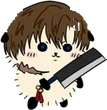
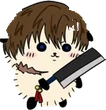
입구는 손 뗄 때 연다 · 말풍선 그림 투명해진 것 · 전 사원 공개
■ 의상숍 입구를 누르자마자 한 장 뽑히던 것

  광장 입구(.plaza-spot)는 **누르는 순간(pointerdown)** 열었다. 그러면
  손가락이 아직 화면에 있는 채로 가게 창이 그 밑에 깔리고, 손을 뗄 때
  click 이 새로 깔린 「1회 30,000 P」로 들어갔다. (click 은 pointerdown
  을 막아도 그대로 나가고, 누른 칸이 문서에서 빠지면 그 자리에 남은
  칸으로 간다 — 가게를 열면서 광장을 닫으니 꼭 그 꼴이 됐다.)

  · plaza.js — 입구를 **click** 에서 연다. pointerdown 은 조이스틱에
    안 뺏기려고 그대로 두되 열지는 않는다. 입구 전부가 함께 고쳐진다.
  · gacha.js — 두 번째 자물쇠. 한 장에 30,000 P 가 나가는 단추라,
    **그 단추에서 눌림이 시작한 것**만 받는다.

  되돌려 재 봤다 — 입구를 누른 것만으로 30,000 P 가 나갔다.

■ 말풍선에 얹은 그림이 비쳐 보이던 것

  글씨를 지운 뒤 **그림 전체**에서 가장자리와 이어진 흰색을 번져
  지웠다. 그런데 하양 몸통(e28)·고양이 흰 배(e42)는 테두리가 성글어
  바깥과 이어져 있어서 **몸통이 통째로 투명해졌다** (불투명 점
  58% → 38%).

  글씨가 말풍선 안에 따로 그려진 것(e28·e42)은 **가장 큰 덩어리만
  남기면** 끝난다 — 흰 바탕이 애초에 딸려 나간다. 글씨가 그림 위에
  바로 쓰인 것(e30·e34)만 그 자리 안에서 번져 지운다.
  네 장 다 다시 떴다 — 불투명 61 · 70 · 69 · 63%.

■ 말풍선을 전 사원에게 열었다

  ONLY_ADMIN = false. 고른 빛깔이 남에게 보이는 길은 이미 깔려 있었다.

Claude-Session: https://claude.ai/code/session_01756qBPpCuB22evHBmdXYTY

diff --git a/gacha.js b/gacha.js
@@ -382,8 +382,22 @@ function paintShop() {
         + ' P</b> 를 돌려 드립니다.<br>등급 확률 — S ' + GACHA.ODDS.S + '% · A ' + GACHA.ODDS.A
         + '% · B ' + GACHA.ODDS.B + '% · C ' + GACHA.ODDS.C + '%</div>'
         + '<div class="gc-list">' + listHtml(shopKind) + '</div>';
+    // ★ **그 단추 위에서 눌렀다 뗀 것**만 뽑기로 친다.
+    //
+    //   한 장에 30,000 P 가 나가는 단추다. 다른 데서 눌린 손가락이
+    //   흘러들어 눌리는 일이 없게, 눌림(pointerdown)이 이 단추에서
+    //   시작했을 때만 받는다. (광장 입구를 누르자마자 그 밑에 가게가
+    //   깔리면서 「1회」가 저절로 눌리던 일이 있었다 — plaza.js 쪽도
+    //   손을 뗄 때 열도록 고쳤고, 여기는 두 번째 자물쇠다.)
     Array.prototype.forEach.call(box.querySelectorAll('.gc-buy button'), function (b) {
-        b.onclick = function () {
+        let mine = false;
+        b.addEventListener('pointerdown', function () { mine = true; });
+        b.addEventListener('pointercancel', function () { mine = false; });
+        b.onclick = function (ev) {
+            // 손가락·마우스로 누른 것이 아니면(자판 등) 눌림이 없다 — 그건 받는다
+            if (ev && ev.pointerType !== undefined && !mine) return;
+            if (ev && ev.detail > 0 && !mine) return;
+            mine = false;
             if (typeof buyGuard === 'function' && !buyGuard()) return;
             const out = roll(shopKind, Number(b.dataset.n));
             if (out) result(shopKind, out);

diff --git a/plaza.js b/plaza.js
@@ -1194,7 +1194,20 @@ function paintSpots() {
         e.style.left = Math.round(s.x * z) + 'px';
         e.style.top = Math.round((s.y != null ? s.y : b[0] - 10) * z) + 'px';
         e.innerHTML = '<div class="b">' + ico(s) + '</div><div class="t">' + esc(s.n) + '</div>';
+        // ★ **손가락을 뗄 때(click)** 연다 — 누르는 순간이 아니다.
+        //
+        //   ✗ 전에는 pointerdown 에서 바로 열었다. 그러면 손가락이 아직
+        //     화면에 있는 채로 창이 그 밑에 깔리고, 손을 뗄 때 click 이
+        //     **새로 깔린 창의 단추**로 들어갔다. 의상숍 입구를 눌렀을
+        //     뿐인데 「1회 30,000 P」가 그대로 눌려 한 장이 뽑혔다.
+        //     (click 은 pointerdown 을 막아도 그대로 나간다 — 규격이 그렇다)
+        //
+        //   pointerdown 은 **조이스틱에 안 뺏기려고** 그대로 둔다
+        //   (광장 창이 #plaza-view 안의 누름을 다 걷어 가므로).
         e.addEventListener('pointerdown', function (ev) {
+            ev.preventDefault(); ev.stopPropagation();
+        });
+        e.addEventListener('click', function (ev) {
             ev.preventDefault(); ev.stopPropagation();
             goApp(s);
         });

diff --git a/bubbles.js b/bubbles.js
@@ -23,11 +23,11 @@
 //       아이보리 ← e34 처리하겠습니다   연노랑 ← e42 힘내요~
 //       하늘     ← e28 배째여~         풀빛   ← e30 나만 믿어!
 //
-// ■ 지금은 상담사만 쓴다
+// ■ 누가 쓰나
 //
-//   시험 삼아 넣는 것이라 **단추가 상담사(kario0987)에게만 보인다.**
-//   전 사원에게 열 때는 아래 ONLY_ADMIN 을 false 로만 바꾸면 된다.
-//   (고른 것을 남이 보는 길은 이미 다 열려 있다 — 자리 기록의 b 칸.)
+//   처음에는 상담사에게만 열어 시험했고, 지금은 **전 사원**이 쓴다
+//   (ONLY_ADMIN = false). 고른 빛깔은 자리 기록의 b 칸에 실려
+//   같은 방 사람 화면에도 그대로 보인다.
 //
 // ■ 어디에 붙나
 //
@@ -43,7 +43,8 @@
 (function speechBubbles() {
 
 const ADMIN = 'kario0987';
-const ONLY_ADMIN = true;        // ★ 전 사원에게 열 때 false 로
+// ★ 2026-10-15 — 상담사 시험을 마치고 **전 사원에게 열었다.**
+const ONLY_ADMIN = false;       // true 로 두면 상담사에게만 보인다
 
 // 그림에서 안쪽 빛깔을 집어 와 그대로 쓴다.
 //
